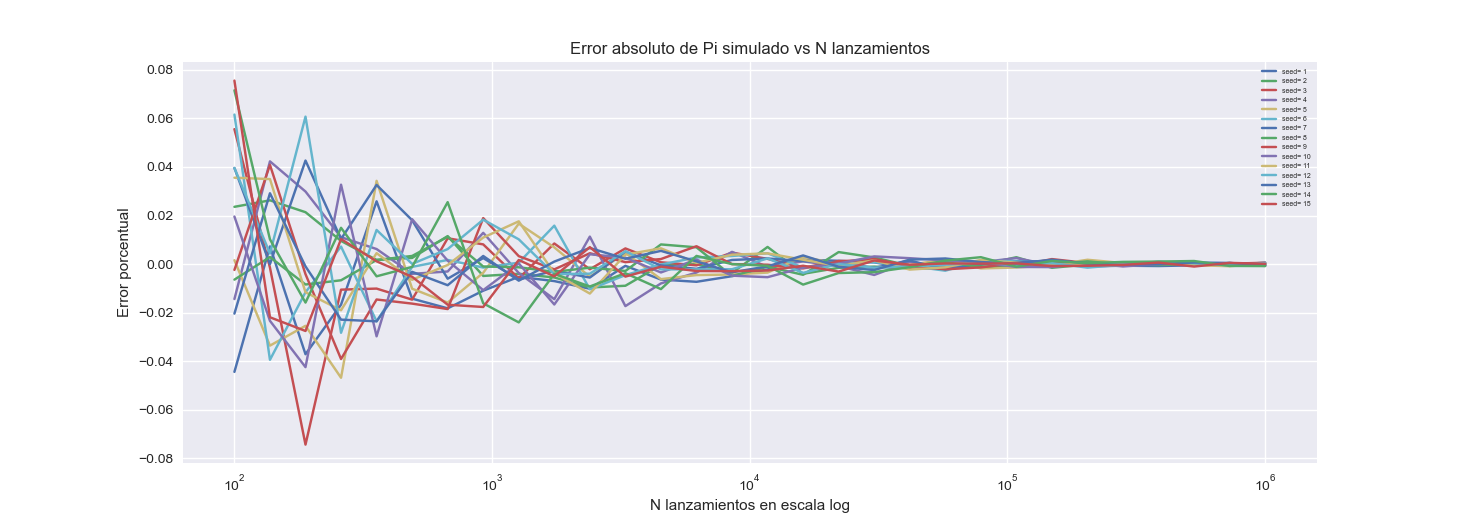
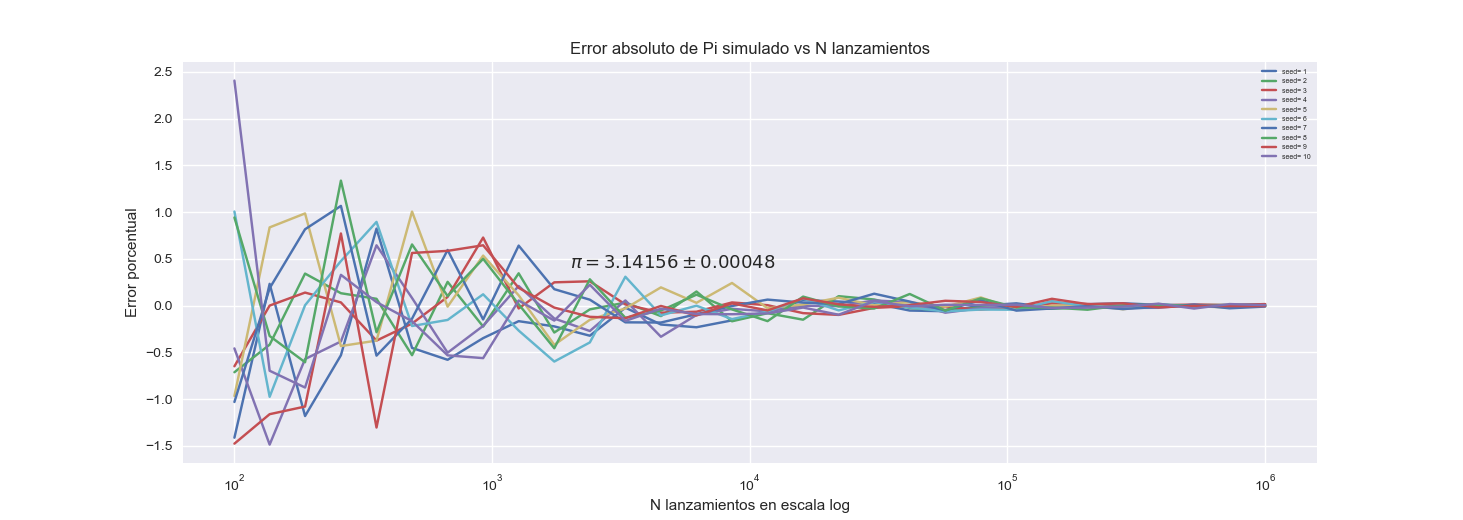
15-11-20

diff --git a/MC laplace/CorreccionHistorica.py b/MC laplace/CorreccionHistorica.py
@@ -1,0 +1,96 @@
+import numpy as np 
+import matplotlib.pyplot as plt
+
+def buffon_historical(N, l=0.75, b=1.0):
+    delta_samples = N * 2
+    
+    x_cent = np.random.uniform(0,b/2,N)
+    
+    delta_x = np.random.uniform(0,1,delta_samples)
+    delta_y = np.random.uniform(0,1,delta_samples)
+    
+    tau = np.sqrt(np.square(delta_x) + np.square(delta_y))
+    good_tau, = np.where(tau < 1)
+    idx = good_tau[0:N]
+    
+    delta_x = delta_x[idx]
+    delta_y = delta_y[idx]
+    tau = tau[idx]
+    #print(tau.shape, delta_x.shape, delta_y.shape)
+    
+    x_tip = x_cent - (l / 2.0) * delta_x / tau
+    
+    #print(x_tip)
+    
+    hits = x_tip < 0
+    
+    n_hits = np.sum(hits)
+    
+    c = 2.0*l*N
+    d = b*n_hits
+    pi_est = c / d
+
+    return pi_est
+    
+    
+def buffon_laplace_historical(N, l=0.75, a=1.5, b=1.0):
+    
+    delta_samples = N * 2
+    
+    x_cent = np.random.uniform(0, b/2, N)
+    y_cent = np.random.uniform(0, a/2, N)
+    
+    delta_x = np.random.uniform(0,1,delta_samples)
+    delta_y = np.random.uniform(0,1,delta_samples)
+    
+    tau = np.sqrt(np.square(delta_x) + np.square(delta_y))
+    good_tau, = np.where(tau < 1)
+    idx = good_tau[0:N]
+    
+    delta_x = delta_x[idx]
+    delta_y = delta_y[idx]
+    tau = tau[idx]
+    
+    x_tip = x_cent - (l/2.0) * delta_x / tau
+    
+    y_tip = y_cent - (l/2.0) * delta_y / tau
+    
+    x_hits = x_tip < 0 
+    y_hits = y_tip < 0
+    
+    hits = np.logical_or(x_hits, y_hits)
+    
+    n_hits = np.sum(hits)
+    
+    c = (2.0 * l * (a + b) - l * l) * N
+    d = a * b * n_hits
+    
+    pi_est = c / d
+    
+    return pi_est
+
+def S_pi_buffon_h(N,k=100,l=0.75,b=1.0):
+    pi_b=[]
+    for _ in range(k):
+        pi_est = buffon_historical(N,l,b)
+        pi_b.append(pi_est)
+    return np.mean(pi_b), np.std(pi_b),pi_b
+
+def S_pi_buffon_laplace_h(N,k=100,l=0.75,a=1.5,b=1.0):
+    pi_bl=[]
+    for _ in range(k):
+        pi_est = buffon_laplace_historical(N,l,a,b)
+        pi_bl.append(pi_est)
+    return np.mean(pi_bl), np.std(pi_bl),pi_bl
+
+
+if __name__ == '__main__':
+    tt,tt1,_ = S_pi_buffon_h(1000)
+    print(tt,tt1)
+
+    xhist=np.linspace(0,6,100)
+    k = 1/(tt1*np.sqrt(2*np.pi))
+    Norm= k*np.exp((-1/2)*((xhist-tt/tt1)**2))
+    plt.plot(xhist,Norm)
+    plt.grid()
+    plt.show()

diff --git a/MC simple/distribucion_uniforme.py b/MC simple/distribucion_uniforme.py
@@ -15,12 +15,13 @@ import matplotlib as mpl
 
 """
 
-seed=np.linspace(0,100,15,dtype=np.int32)
+seed=np.linspace(0,100,10,dtype=np.int32)
 k=1000000
 l=30
-QA=np.logspace(np.log10(k),2,l)
+QA=np.logspace(np.log10(k),2,l,dtype=np.int64)
 mpl.style.use('seaborn')
 plt.title('Error absoluto de Pi simulado vs N lanzamientos')
+
 plt.xlabel('N lanzamientos en escala log')
 plt.ylabel('Error porcentual')
 
@@ -28,8 +29,9 @@ for j,i in enumerate(seed):
 	np.random.seed(i)
 	_,a=errors_data(k,l)
 	plt.semilogx(QA,a,label='seed= %d'%(j+1))
+a,b=montepi.stats(10**7,100)
 
+plt.text(2000, 0.4, r'$\pi=%.5f \pm %.5f$'%(a,b) ,fontsize=13)
 plt.legend(prop={'size': 5}) 
-
 plt.show()
 

diff --git a/MC simple/errors.py b/MC simple/errors.py
@@ -44,8 +44,8 @@ def errors_data(k=10000,l=300): #k es el numero maximo de tiradas y l es la cant
     for i,j in zip(n,n1):
         pi,_= stats(i,20)
         pi1,_=stats(j,20)
-        error.append(np.pi-pi) #error porcentual respecto al valor de referencia
-        error1.append(np.pi-pi1) #error porcentual respecto al valor de referencia
+        error.append(100*(np.pi-pi)/np.pi) #error respecto al valor de referencia
+        error1.append(100*(np.pi-pi1)/np.pi) #error respecto al valor de referencia
     return error,error1
 
 if __name__=='__main__':
